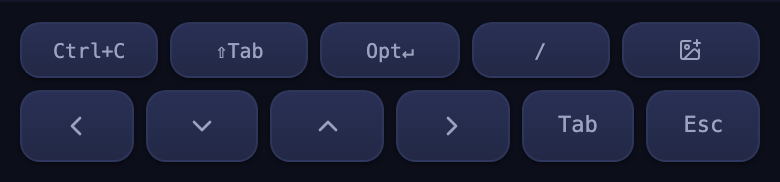
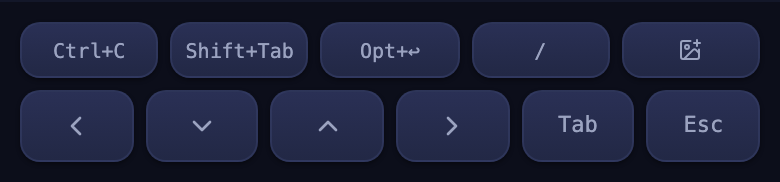
fix(client): improve quick key labels for readability
S+Tab → Shift+Tab, Opt↵ → Opt+↩ for clarity.

Changed region(s): [[0.2154, 0.2198, 0.4, 0.3297], [0.4615, 0.2198, 0.5538, 0.3297]]

diff --git a/client/src/components/quick-keys.tsx b/client/src/components/quick-keys.tsx
@@ -104,10 +104,10 @@ export function QuickKeys({ activeSessionId, send }: QuickKeysProps) {
           Ctrl+C
         </button>
         <button className={smallKey} onClick={() => sendKey("\x1b[Z")}>
-          ⇧Tab
+          Shift+Tab
         </button>
         <button className={smallKey} onClick={() => sendKey("\x1b\r")}>
-          Opt↵
+          Opt+↩
         </button>
         <button className={smallKey} onClick={() => sendKey("/")}>
           /
